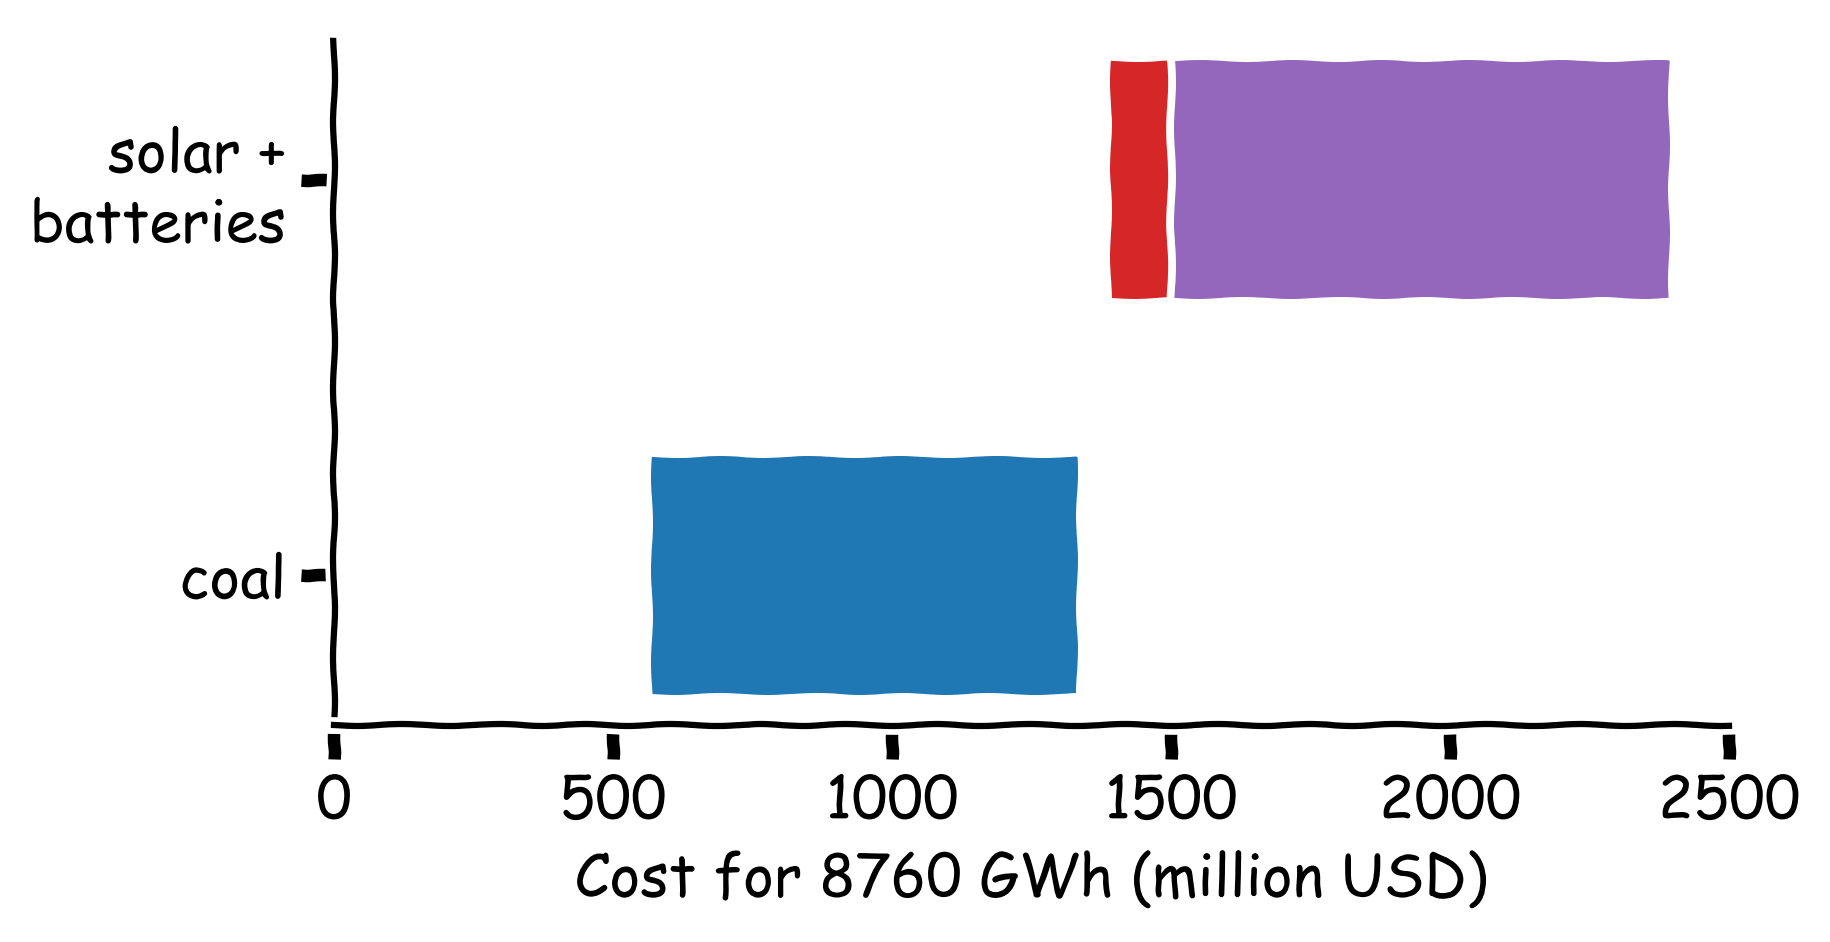
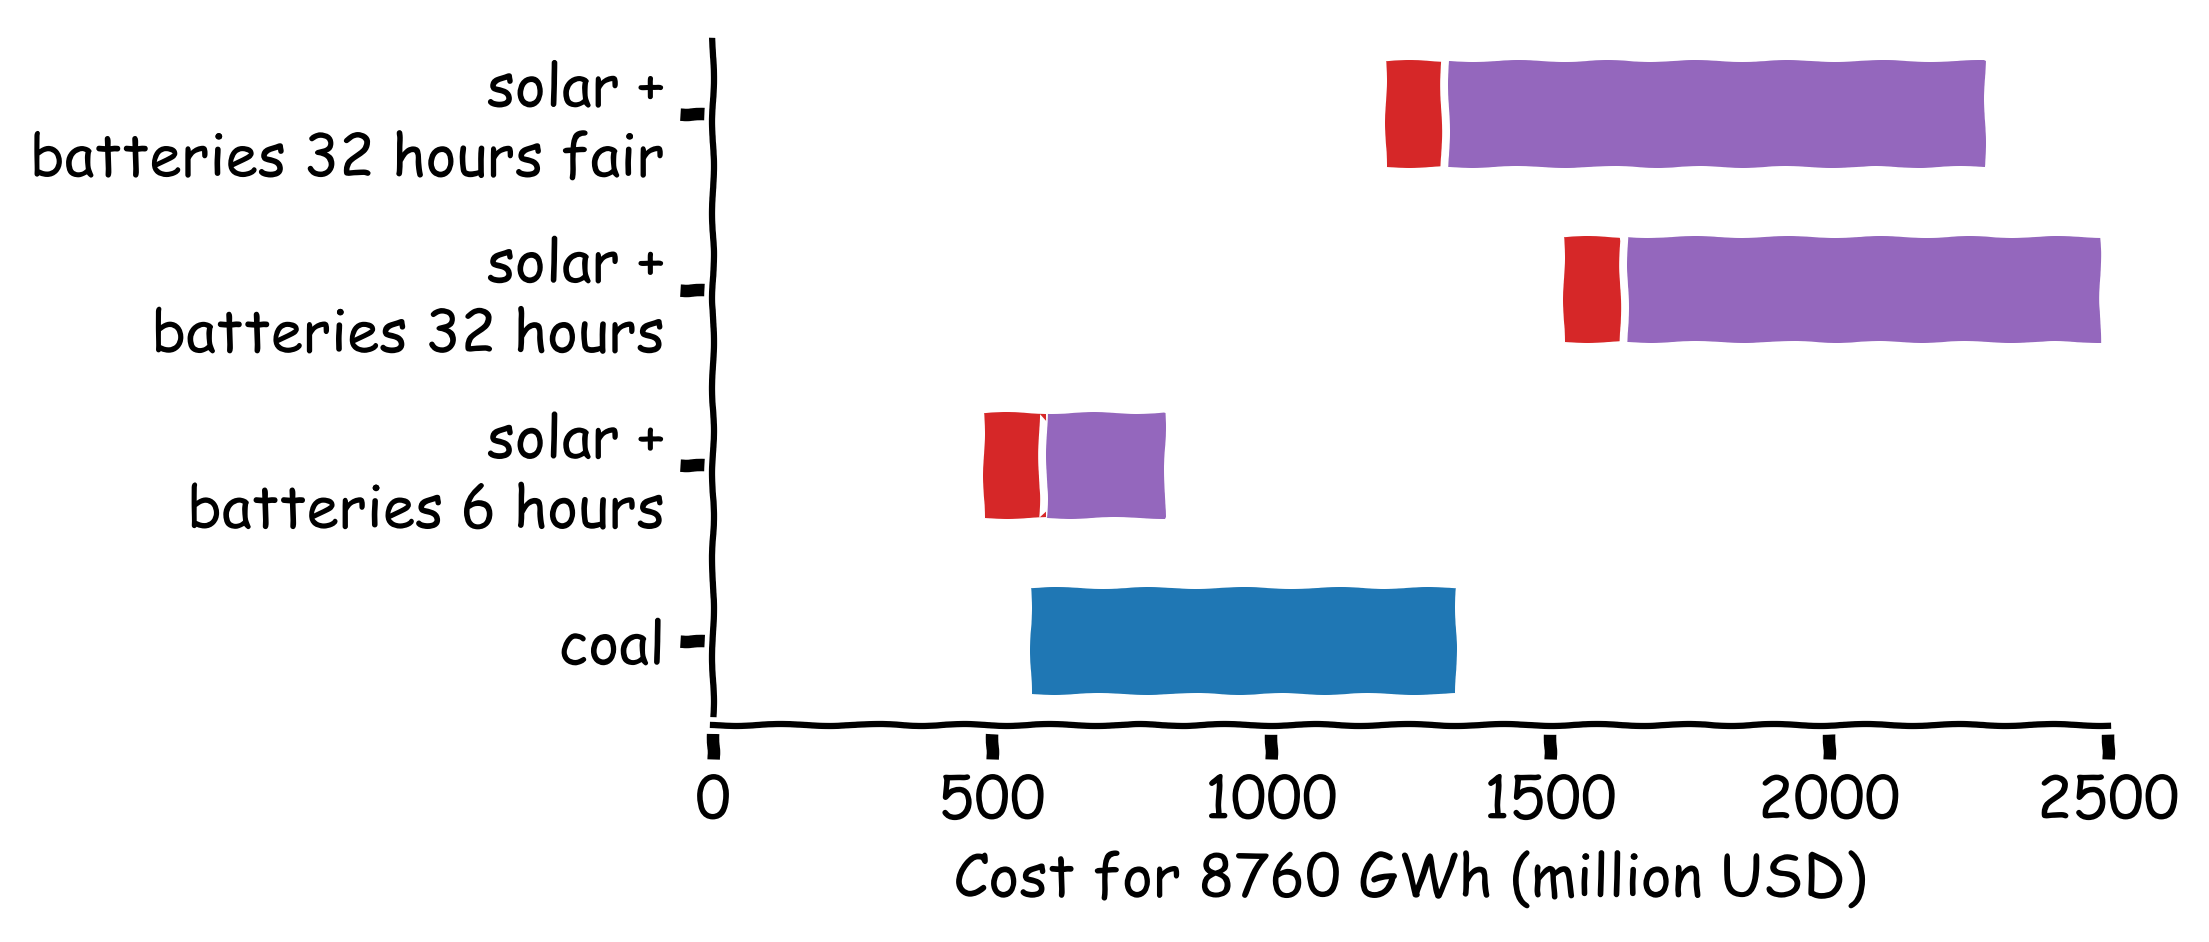
Corrections to solar post

Changed region(s): [[0.0, 0.0616, 0.8721, 0.9544], [0.5918, 0.0616, 0.9656, 0.3694], [0.9033, 0.7696, 0.9967, 0.8928]]

diff --git a/_posts/2021-11-25-betting-batteries.md b/_posts/2021-11-25-betting-batteries.md
@@ -44,22 +44,27 @@ To compare coal with solar + batteries, let's construct a scenario. A 2GW coal p
 
 {% include image.html url="/assets/images/2021/solar-scenario.png" description="If you don't care what time your energy comes, solar wins easily." class="narrow-img" %}
 
-So let's add batteries. We want something that can output at least 2 GW (the peak output of the coal plant), and maintain it for 32 hours. So 2 GW capacity and 64 GWh of storage. (About [double](https://www.woodmac.com/news/opinion/the-growth-and-growth-of-the-global-energy-storage-market/) the total installed battery storage in 2021. )
+*Note: I have updated the following calculations thanks to some feedback! This doesn't change my conclusion directionally, except to maybe narrow the margins slightly.*
 
-This multiplier of 32 is far higher than typical grid-scale batteries, which are more likely to have around 5 hours. Based on this, I'm going to use purely the *energy* costs from Lazard, under the assumption that a battery with 64 GWh of storage will easily cover the required 2 GW peak output{%- include fn.html n=4 -%}. That number is 131 -- 232 $/MWh{%- include fn.html n=5 -%}, and multiplied in the same way added to the chart below.
+So let's add batteries. We want something that can output at least ~~2 GW~~ {%- include fn.html n=4 -%} 1 GW (the amount the 2 GW of coal can continuously deliver), and maintain it for 32 hours. So 1 GW capacity and 32 GWh of storage. (About [the same as](https://www.woodmac.com/news/opinion/the-growth-and-growth-of-the-global-energy-storage-market/) the total installed battery storage in 2021.)
+
+This multiplier of 32 is far higher than typical grid-scale batteries, which are more likely to have around 5 hours. Based on this, I'm going to use purely the *capacity* costs from Lazard, but will have to do some juggling to come up with a reasonable figure for a 32 hour battery. The number is around 240 - 451 USD/kw-year{%- include fn.html n=5 -%} for a 6 hour grid-connected battery. The chart below shows the following:
+- The 6-hour battery, multiplied up to a 1 GW capacity
+- Simply multiplying this value by 32/6 to get the cost of using these exact same batteries to provide 32 hours of storage
+- Finally, for the "fair" bar at the top, I [fit a logarithmic function](/assets/images/2021/battery-fit.png) of USD/kw-year/hour-of-storage using prices for four different durations of storage from Lazard.{%- include fn.html n=6 -%}
 
 {% include image.html url="/assets/images/2021/solar-batteries.png" description="Unfortunately, batteries complicate things somewhat..." class="narrow-img" %}
 
-So... *right now*, the cheapest possible solar + batteries is slightly more expensive than the highest estimate for coal. Solar is probably on the more expensive end in India (not quite sunny enough), while coal is complicated as it comes out of the ground and is probably subsidised in all sorts of ways. But I would guess it falls to the lower end of this spectrum? So maybe today, in 2021, solar + batteries is around 3x more expensive. So that cost needs to drop by ~66% to become competitive{%- include fn.html n=6 -%}. 
+So... *right now*, the cheapest possible solar + batteries is around the same as the highest estimate for coal. Solar is probably on the more expensive end in India (not quite sunny enough), while coal is complicated as it comes out of the ground and is probably subsidised in all sorts of ways. But I would guess it falls to the lower end of this spectrum? So maybe today, in 2021, solar + batteries is around 3x more expensive. So that cost needs to drop by ~66% to become competitive{%- include fn.html n=7 -%}. 
 
 ## The question
-The question is, will batteries drop in price by two-thirds by 2028? NREL has put together [some projections](https://www.nrel.gov/docs/fy21osti/79236.pdf) that expect costs to drop 25% - 60% by 2030. Within reach of losing me the bet! These projections are often wrong, and sometimes spectacularly so. Some people [citation needed] don't think batteries will have the same dramatic price curves as solar, as it is limited by chemistry and the physical quantities of material that are needed to store a certain amount of charge.
+The question is, will batteries drop in price by two-thirds by 2028? NREL has put together [some projections](https://www.nrel.gov/docs/fy21osti/79236.pdf) that expect costs to drop 25% - 60% by 2030. Within reach of losing me the bet! These projections are often wrong, and sometimes spectacularly so. Some people [citation needed] don't think batteries will have the same dramatic price curves as solar, as it is limited by chemistry and the physical quantities of material that are needed to store a certain amount of charge. But these people are generally wrong.
 
-{% include image.html url="/assets/images/2021/batteries.png" description="These things are always wrong, but at least I can point at something" class="narrow-img" %}
+{% include image.html url="/assets/images/2021/batteries.png" description="NREL paper figure 6. These things are always wrong, but at least I can point at something" class="narrow-img" %}
 
 So how sure am I in winning the bet... the stakes are high: the loser has to plant 100 trees, with the resulting carbon benefits accruing to the winner! And of course (labour obligations aside), I hope that I lose my bet. But do I think coal will be cheaper than solar+batteries (32 hours) in India in January 2028? I have no idea, but for posterity's sake I'm going to put my credibility on the line and say
 
-> yes (coal will be cheaper), with 60% confidence
+> yes (coal will be cheaper), with ~~60%~~ 55% confidence
 
 What if we include nuclear? Unlike coal, it might have a future of improved technology and learning curves... but probably not before 2028.
 
@@ -73,10 +78,12 @@ See you in six years!
 
 <span id="fn3">[3]&nbsp;<a href="#fn3b"><sup>go back</sup></a>&nbsp;</span><i>Except don't forget the [First Law of Thermodynamics](https://en.wikipedia.org/wiki/First_law_of_thermodynamics).</i>
 
-<span id="fn4">[4]&nbsp;<a href="#fn4b"><sup>go back</sup></a>&nbsp;</span><i>I'm probably disadvantaging storage by using numbers for batteries with a lower ratio, and presumably they could be cheaper for this level of energy if designed with such a high ratio in mind.</i>
+<span id="fn4">[4]&nbsp;<a href="#fn4b"><sup>go back</sup></a>&nbsp;</span><i>I originally forgot to include the fact that coal's 50% capacity factor means 2 GW can only provide 1 GW of continuous power.</i>
 
-<span id="fn5">[5]&nbsp;<a href="#fn5b"><sup>go back</sup></a>&nbsp;</span><i> Note that this is per MWh delivered, not per MWh of storage installed. That number is about 1,000 times higher.</i>
+<span id="fn5">[5]&nbsp;<a href="#fn5b"><sup>go back</sup></a>&nbsp;</span><i>This is the levelised cost to provide this much capacity availability for a year, not the cost to install this many kW of battery capacity.</i>
 
-<span id="fn6">[6]&nbsp;<a href="#fn6b"><sup>go back</sup></a>&nbsp;</span><i> A [report on LDES](https://www.ldescouncil.com/assets/LDES-2021-report-lowres.pdf) (long duration energy storage) suggests costs must drop by 60% for LDES specifically to be competitive. I imagine LDES is cheaper than Li-Ion (or has the potential to be). Anyway this feels like confirmation that I'm in the right ballpark.</i>
+<span id="fn6">[6]&nbsp;<a href="#fn6b"><sup>go back</sup></a>&nbsp;</span><i>The choice of logarithmic is I think supported to some degree by the final chart from NREL data, showing diminishing cost decreases as you get to longer duration batteries.</i>
+
+<span id="fn7">[7]&nbsp;<a href="#fn7b"><sup>go back</sup></a>&nbsp;</span><i> A [report on LDES](https://www.ldescouncil.com/assets/LDES-2021-report-lowres.pdf) (long duration energy storage) suggests costs must drop by 60% for LDES specifically to be competitive. I imagine LDES is cheaper than Li-Ion (or has the potential to be). Anyway this feels like confirmation that I'm in the right ballpark.</i>
 
 
